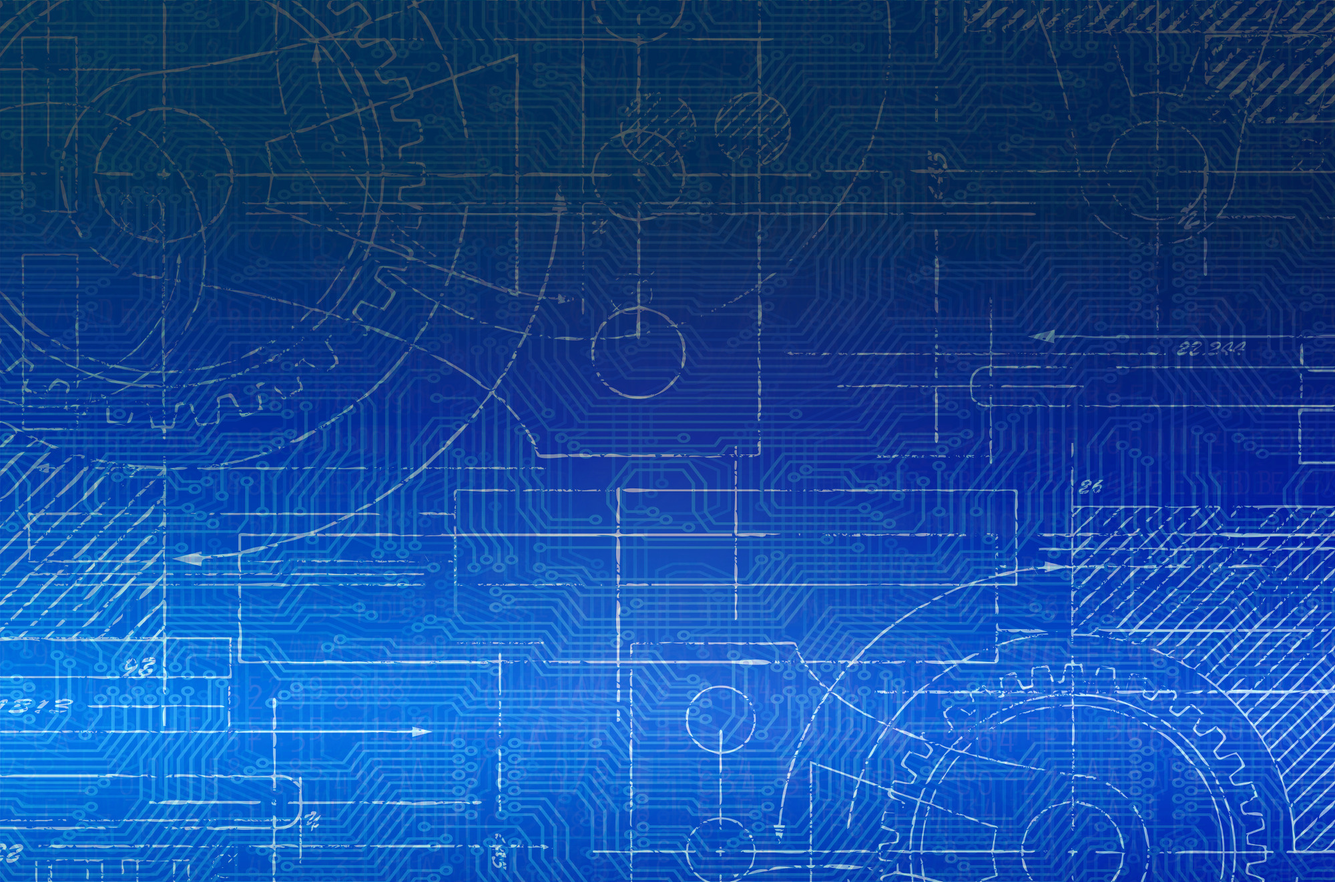
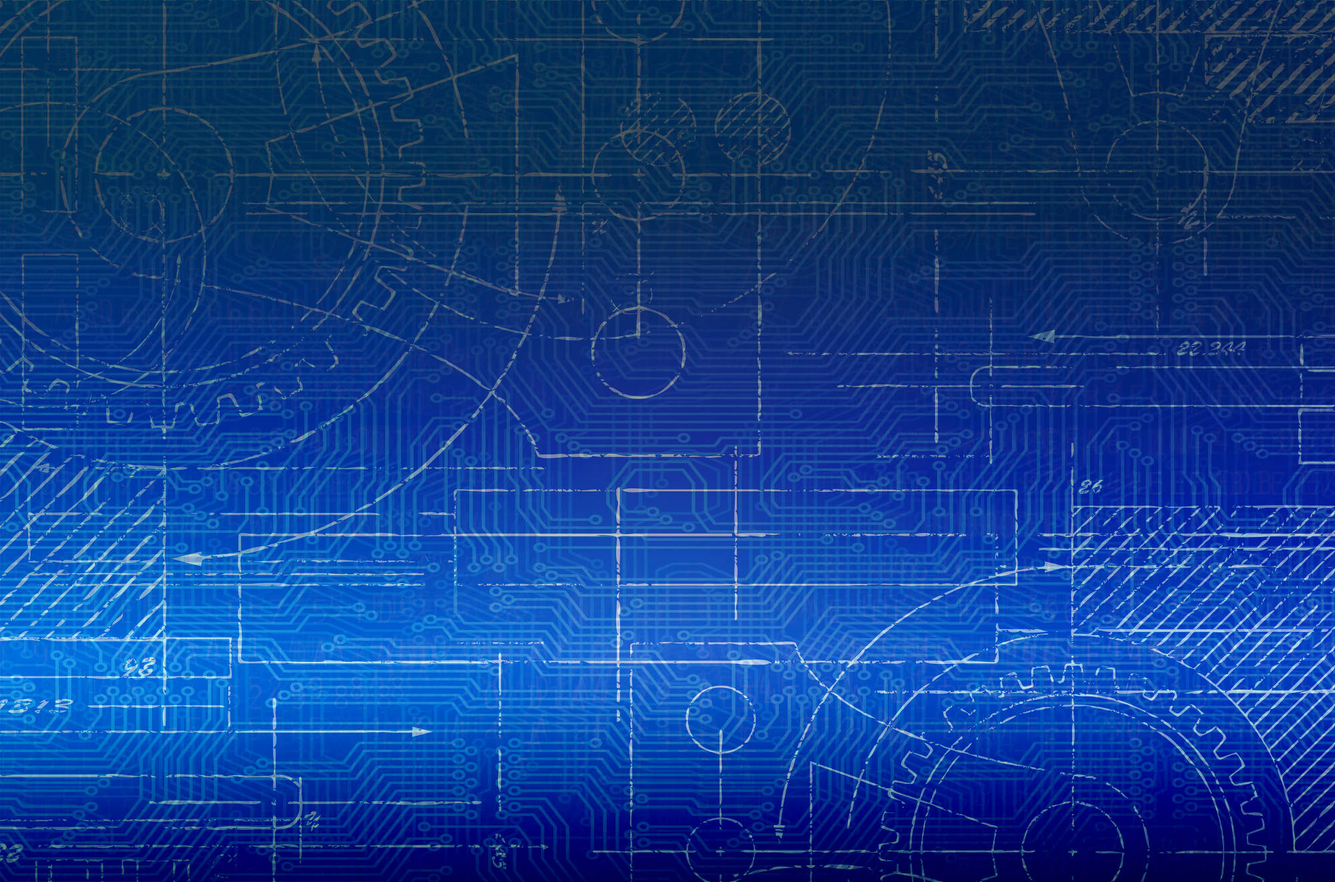
added golden gate

Changed region(s): [[0.0, 0.6203, 1.0, 1.0], [0.961, 0.5893, 0.992, 0.6203], [0.031, 0.6513, 0.062, 0.6823]]

diff --git a/_site/blog/index.html b/_site/blog/index.html
@@ -20,12 +20,12 @@
 <link rel="canonical" href="http://localhost:4000/blog/" />
 <meta property="og:url" content="http://localhost:4000/blog/" />
 <meta property="og:site_name" content="A" />
-<meta property="og:image" content="https://source.unsplash.com/MqJX_8EaStM/2000x1322?a=.png" />
+<meta property="og:image" content="http://localhost:4000/images/goldengatebridge.jpg" />
 <script type="application/ld+json">
 {"@context": "http://schema.org",
 "@type": "WebPage",
 "headline": "Blog",
-"image": "https://source.unsplash.com/MqJX_8EaStM/2000x1322?a=.png",
+"image": "http://localhost:4000/images/goldengatebridge.jpg",
 "description": "My blog on innovation and technology.",
 "publisher": {"@type": "Organization",
 "logo": {"@type": "ImageObject",
@@ -74,7 +74,7 @@
 			</div>
 		</header>
 
-		<section class="hero" style="background-image: url(https://source.unsplash.com/MqJX_8EaStM/2000x1322?a=.png)">
+		<section class="hero" style="background-image: url(/images/goldengatebridge.jpg)">
 	<div class="inner-hero text-container">
 		<div class="hero-text-container">
 			<h1 class="editable">Let's learn and grow</h1>

diff --git a/blog/index.html b/blog/index.html
@@ -1,7 +1,7 @@
 ---
 title: Blog
 description: My blog on innovation and technology.
-image: https://source.unsplash.com/MqJX_8EaStM/2000x1322?a=.png
+image: /images/goldengatebridge.jpg
 ---
 
 <section class="hero" style="background-image: url({% include relative-src.html src=page.image %})">
